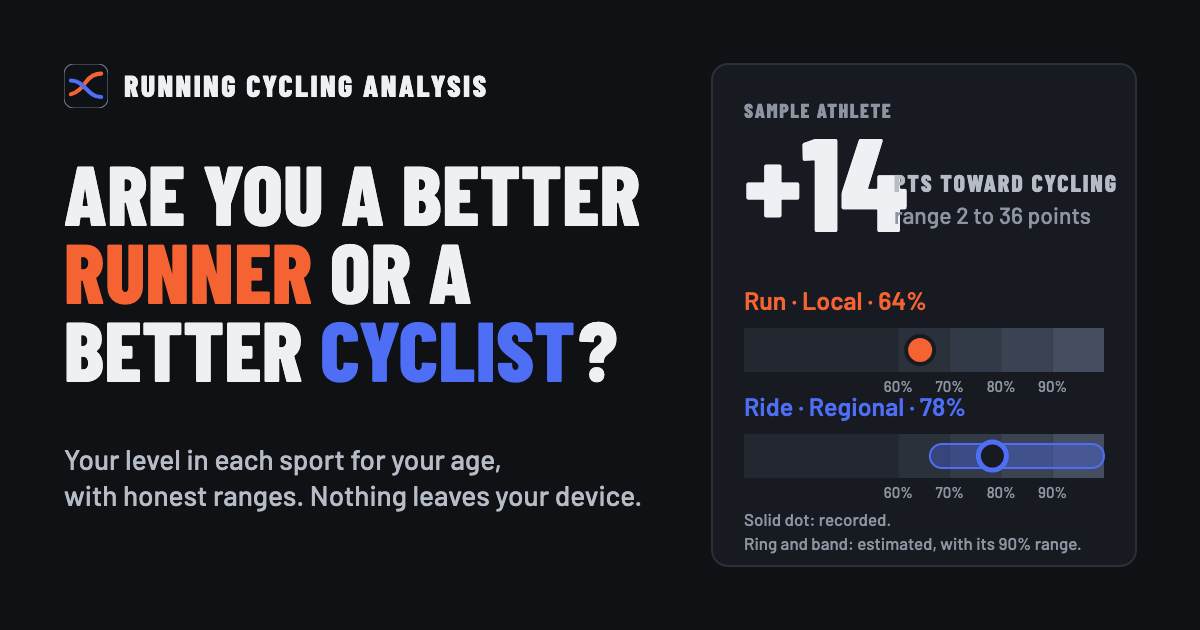
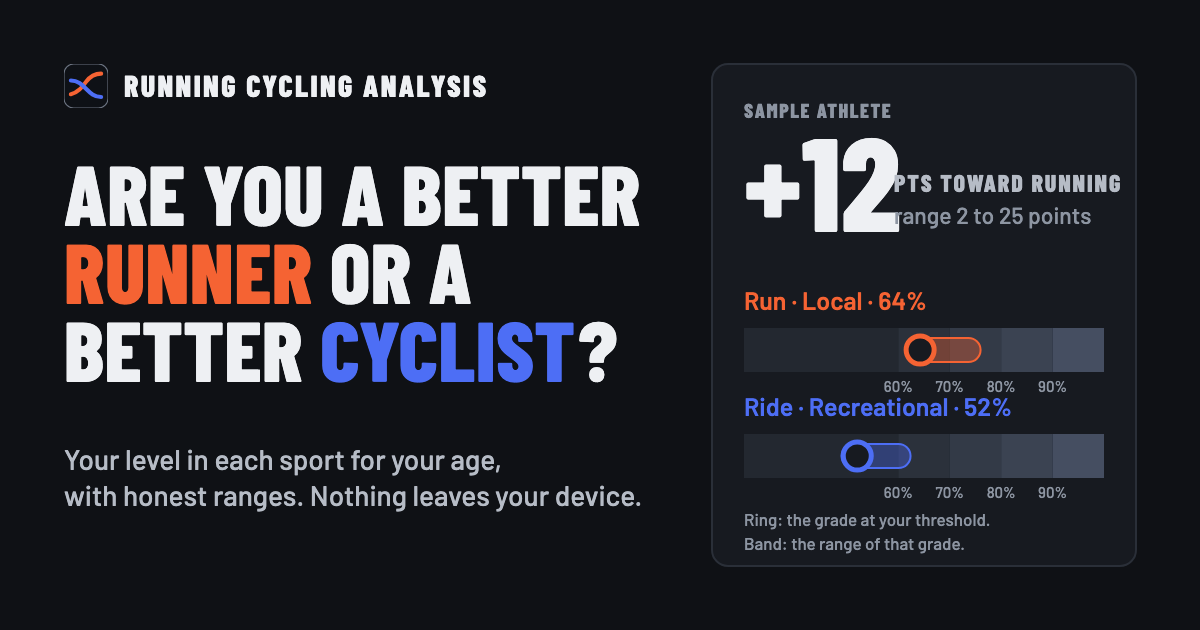
Bring the web tests to the threshold grades and the anchored ride
Each test now states the rule the page follows: the balance line gives the range
beside the centre, a result with no run threshold has only the energy ratio, the
grade line says threshold, and the Method page's grades section says each sport is
graded against its own best. The twelve-year fixture's ride starts higher, since a
ride now sits lower against the best runners than under the equal-energy rule, so
the years still cross in the same place. The share image is redrawn from the sample
athlete's threshold grades.

diff --git a/apps/web/src/ui/analysis/whatMoved.test.ts b/apps/web/src/ui/analysis/whatMoved.test.ts
@@ -1,5 +1,4 @@
 import { describe, expect, it } from 'vitest'
-import { headlineGrades } from '../balanceFixtures'
 import { HEADLINE_DURATION_S, PRIORS } from '@rca/core/constants'
 import type { AnalysisResult } from '@rca/core/pipeline'
 import type { AthleteSettings, Comparison, Interval } from '@rca/core/types'
@@ -13,8 +12,9 @@ import {
   makeEquivalence,
   makeResult,
 } from '../components/fixtures'
-import { gapOfHeadline } from '../balanceGap'
 import { formatGrade } from '../gradeFormat'
+import { standingOf } from '../standing'
+import { thresholdGrade } from '../thresholdGrade'
 import type { ImportChange } from './importState'
 import { listedMoves, whatMoved } from './whatMoved'
 
@@ -565,8 +565,11 @@ describe('whatMoved: balance in grade points', () => {
     const texts = whatMoved(before, after, SETTINGS, 'metric', MAN_BORN_1986).map(
       (item) => item.text,
     )
+    // The range moves with the ride's threshold, so the line states it with the centre.
     expect(texts).toContainEqual(
-      expect.stringMatching(/^Your balance now leans more toward running \(\d+ → \d+ points\)$/),
+      expect.stringMatching(
+        /^Your balance now leans more toward running \(\d+ → \d+ points\), and the range was \d+ to \d+ points and is now \d+ to \d+ points$/,
+      ),
     )
   })
 
@@ -576,12 +579,19 @@ describe('whatMoved: balance in grade points', () => {
     const texts = whatMoved(before, after, SETTINGS, 'metric', MAN_BORN_1986).map(
       (item) => item.text,
     )
-    expect(texts).toContain('Your balance now leans toward cycling')
+    expect(texts).toContainEqual(
+      expect.stringMatching(
+        /^Your balance now leans toward cycling, and the range was \d+ to \d+ points and is now -?\d+ to -?\d+ points$/,
+      ),
+    )
   })
 
   it('lists no balance when one side has grades and the other has only the energy ratio', () => {
     const before = gradedResult(3.8)
-    const after = resultWith({ comparison: balance(interval(1.02, 1.08, 1.14)) })
+    // No run threshold yet, so the run is not graded: this side has only the energy ratio.
+    const after = resultWith({ runCp: null, comparison: balance(interval(1.02, 1.08, 1.14)) })
+    expect(standingOf(before, MAN_BORN_1986).lead).not.toBeNull()
+    expect(standingOf(after, MAN_BORN_1986).lead).toBeNull()
     const texts = whatMoved(before, after, SETTINGS, 'metric', MAN_BORN_1986).map(
       (item) => item.text,
     )
@@ -594,7 +604,7 @@ describe('whatMoved: a ride at the top of the age tables', () => {
     // The ride's 9 m/s equivalent is faster than the running record for a man of 40, so it tops the scale.
     const before = gradedResult(9, { comparison: balance(interval(1.05, 1.12, 1.2)) })
     const after = gradedResult(9.5, { comparison: balance(interval(1.02, 1.08, 1.14)) })
-    expect(headlineGrades(before, MAN_BORN_1986).ride.kind).toBe('top-of-scale')
+    expect(thresholdGrade(before, 'ride', MAN_BORN_1986).kind).toBe('top-of-scale')
     const texts = whatMoved(before, after, SETTINGS, 'metric', MAN_BORN_1986).map(
       (item) => item.text,
     )
@@ -648,10 +658,10 @@ describe('whatMoved while no weight is entered', () => {
   })
 })
 
-/** The ride's headline grade as the page writes it, for a result graded for MAN_BORN_1986. */
+/** The ride's grade at its threshold as the page writes it, for a result graded for MAN_BORN_1986. */
 function rideGradeText(result: AnalysisResult): string {
-  const outcome = headlineGrades(result, MAN_BORN_1986).ride
-  if (outcome.kind !== 'graded') throw new Error('the ride has no headline grade')
+  const outcome = thresholdGrade(result, 'ride', MAN_BORN_1986)
+  if (outcome.kind !== 'graded') throw new Error('the ride has no grade at its threshold')
   return formatGrade(outcome.grade.centre.grade)
 }
 
@@ -737,7 +747,7 @@ describe('whatMoved: an import that added one activity', () => {
     ])
   })
 
-  it('adds the sport headline grade after the balance, in a spoken form too, when its whole percent changed', () => {
+  it('adds the sport grade at its threshold after the balance, in a spoken form too, when its whole percent changed', () => {
     const before = gradedResult(3.8)
     const after = gradedResult(3.5, {
       activities: [RUN, RIDE, NEW_RIDE],
@@ -749,8 +759,8 @@ describe('whatMoved: an import that added one activity', () => {
     const items = whatMoved(before, after, SETTINGS, 'metric', MAN_BORN_1986, true, 'ride')
     expect(items[0]?.text).toMatch(/^Your balance now leans more toward running \(/)
     expect(items[1]).toEqual({
-      text: `Ride 20 min grade: ${from} → ${to}`,
-      spoken: `Ride 20 min grade from ${from} to ${to}`,
+      text: `Ride threshold grade: ${from} → ${to}`,
+      spoken: `Ride threshold grade from ${from} to ${to}`,
     })
   })
 
@@ -869,9 +879,9 @@ describe('whatMoved: review fixes for one added activity', () => {
   })
 })
 
-/** The grade gap of a graded result for MAN_BORN_1986; throws when it has none. */
+/** The lead the page states for a result graded for MAN_BORN_1986, from the thresholds' grades; throws when it has none. */
 function gapOf(result: AnalysisResult) {
-  const gap = gapOfHeadline(headlineGrades(result, MAN_BORN_1986))
+  const gap = standingOf(result, MAN_BORN_1986).lead
   if (gap === null) throw new Error('the result has no grade gap')
   return gap
 }
@@ -887,10 +897,13 @@ describe('whatMoved: the balance line states the figures the Balance page shows'
     const to = Math.abs(Math.round(gapOf(after).centre))
     expect(from).not.toBe(to)
     const direction = to < from ? 'less' : 'more'
+    const [a, b] = [gapOf(before), gapOf(after)]
+    // The ride's threshold range moves with its centre, so the page states both.
+    const range = `the range was ${a.low} to ${a.high} points and is now ${b.low} to ${b.high} points`
     const [first] = whatMoved(before, after, SETTINGS, 'metric', MAN_BORN_1986, true, 'ride')
     expect(first).toEqual({
-      text: `Your balance now leans ${direction} toward running (${from} → ${to} points)`,
-      spoken: `Your balance now leans ${direction} toward running, from ${from} to ${to} points`,
+      text: `Your balance now leans ${direction} toward running (${from} → ${to} points), and ${range}`,
+      spoken: `Your balance now leans ${direction} toward running, from ${from} to ${to} points, and ${range}`,
     })
   })
 

diff --git a/apps/web/src/ui/pages/AgeGradingSection.test.tsx b/apps/web/src/ui/pages/AgeGradingSection.test.tsx
@@ -57,18 +57,19 @@ describe('AgeGradingSection', () => {
     expect(section()).not.toHaveTextContent(/flat pace|a fact from the file/)
   })
 
-  it('says a ride grade is an estimate through its running equivalent', () => {
+  it('grades each sport against its own best, and a ride through its running equivalent at the same share', () => {
     render(<AgeGradingSection gradedSex={null} />)
 
     for (const line of [
-      'A ride has no published cycling standard.',
-      'Its threshold is converted to a running equivalent.',
-      'That is the flat running speed that costs the same energy for the same hour.',
-      'The equivalent is graded like a run.',
+      'Each sport is graded against its own best: a ride against the best riders’ hour, a run against the best runners’.',
+      'Your grade in each is your share of world class at your age.',
+      'A ride has no published cycling standard, so its threshold becomes a running equivalent at the same share.',
       'So a ride grade is an estimate.',
     ]) {
       expect(within(section()).getByText(line)).toBeInTheDocument()
     }
+    // The old rule priced a ride's energy and read the run that costs the same; it is gone from the page.
+    expect(section()).not.toHaveTextContent(/costs the same energy/)
     // The 90% range is explained once, in the energy view, so this paragraph does not repeat it.
     expect(section()).not.toHaveTextContent('Its range is the model’s 90% range')
   })
@@ -86,20 +87,21 @@ describe('AgeGradingSection', () => {
     }
   })
 
-  it('explains why each effort is graded at its own date, and which date a ride takes', () => {
+  it('grades a threshold as an hour at the age on its strongest effort’s day, and a best at a duration on its own date', () => {
     render(<AgeGradingSection gradedSex={null} />)
 
     expect(
-      within(section()).getByText('Each effort is graded at your age on its own date.'),
+      within(section()).getByText(
+        'Each threshold is graded as an hour, at your age on the day of its strongest effort.',
+      ),
     ).toBeInTheDocument()
     expect(
       within(section()).getByText('It is not graded at the newest activity’s date.'),
     ).toBeInTheDocument()
     expect(
-      within(section()).getByText('A ride takes the date of its own best ride at that duration.'),
-    ).toBeInTheDocument()
-    expect(
-      within(section()).getByText('Its running equivalent comes from that ride.'),
+      within(section()).getByText(
+        'A best effort at a duration is graded at your age on its own date: for a ride, its own best ride.',
+      ),
     ).toBeInTheDocument()
   })
 
@@ -207,12 +209,11 @@ describe('AgeGradingSection level target', () => {
 })
 
 describe('AgeGradingSection balance', () => {
-  it('says the grades of each sport’s best effort at the headline length give the balance', () => {
+  it('says the balance grades each sport at its threshold, as an hour', () => {
     render(<AgeGradingSection gradedSex={null} />)
 
-    expect(
-      within(section()).getByText('Each sport is graded at its threshold, as an hour.'),
-    ).toBeInTheDocument()
+    expect(within(section()).getByText(/^Each threshold is graded as an hour,/)).toBeInTheDocument()
+    expect(section()).not.toHaveTextContent(/best effort at the headline length/)
   })
 })
 
@@ -224,9 +225,9 @@ describe('AgeGradingSection reading', () => {
     const lines = Array.from(container.querySelectorAll('.method__line')).map(
       (line) => line.textContent ?? '',
     )
-    expect(lines.length).toBeGreaterThan(25)
+    expect(lines.length).toBeGreaterThan(20)
     for (const line of lines) expect(line.split(/\s+/).length, line).toBeLessThanOrEqual(25)
-    // Thirty lines as a handful of paragraphs, not thirty blocks.
+    // Over twenty lines as a handful of paragraphs, not a block each.
     expect(container.querySelectorAll('.method__text > p.secondary').length).toBeLessThan(14)
   })
 })

diff --git a/apps/web/src/ui/pages/MethodPage.words.test.tsx b/apps/web/src/ui/pages/MethodPage.words.test.tsx
@@ -29,7 +29,7 @@ const BUDGET = 2000
 describe('the Method page', () => {
   it('stays within its word budget', () => {
     const { container } = render(page(makeResult(), MAN_BORN_1986))
-    // Measured with every disclosure closed: 2,046 words before D4.10's trim, 2,010 after; the Your years topic (#311) has since added 15, so 2,025. V2e writes one fact a line and moves the zone schemes, the curve starts and the tie-break into More detail, which leaves 2,024. One How this works list says each idea once, and its small details are plain lines, which leaves 2,017. The threshold entry says a ride’s method and drops the rule that a best that was not hard set a floor, which leaves 2,007. The run threshold is said as the ride's is, one line for each in place of the critical-speed fit and its floor, which leaves 2,000. The heart-rate line names the ride and the run line drops "built the same way", which leaves 1,999.
+    // Measured with every disclosure closed: 2,046 words before D4.10's trim, 2,010 after; the Your years topic (#311) has since added 15, so 2,025. V2e writes one fact a line and moves the zone schemes, the curve starts and the tie-break into More detail, which leaves 2,024. One How this works list says each idea once, and its small details are plain lines, which leaves 2,017. The threshold entry says a ride’s method and drops the rule that a best that was not hard set a floor, which leaves 2,007. The run threshold is said as the ride's is, one line for each in place of the critical-speed fit and its floor, which leaves 2,000. The heart-rate line names the ride and the run line drops "built the same way", which leaves 1,999. Grading each sport against its own best says the anchor in three lines and drops the equal-energy ones, which leaves 1,998.
     expect(wordsOf(container).length).toBeLessThanOrEqual(BUDGET)
   })
 })

diff --git a/apps/web/src/ui/pages/AgeGradingSection.tsx b/apps/web/src/ui/pages/AgeGradingSection.tsx
@@ -59,10 +59,8 @@ export function AgeGradingSection({ gradedSex }: AgeGradingSectionProps) {
           lines={[
             'Each sport is graded against its own best: a ride against the best riders’ hour, a run against the best runners’.',
             'Your grade in each is your share of world class at your age.',
-            'A ride has no published cycling standard, so its threshold is placed on the running scale at the same share of its world class.',
-            'That running pace is its running equivalent, and it is graded like a run.',
+            'A ride has no published cycling standard, so its threshold becomes a running equivalent at the same share.',
             'So a ride grade is an estimate.',
-            'Each sport is graded at its threshold, as an hour.',
           ]}
         />
         <MethodLines
@@ -83,11 +81,9 @@ export function AgeGradingSection({ gradedSex }: AgeGradingSectionProps) {
         />
         <MethodLines
           lines={[
-            'Each threshold is graded at your age on the day of its strongest effort.',
+            'Each threshold is graded as an hour, at your age on the day of its strongest effort.',
             'It is not graded at the newest activity’s date.',
-            'A best effort at a duration is graded at your age on its own date.',
-            'A ride takes the date of its own best ride at that duration.',
-            'Its running equivalent comes from that ride.',
+            'A best effort at a duration is graded at your age on its own date: for a ride, its own best ride.',
           ]}
         />
         <p className="secondary">

diff --git a/packages/core/src/history/test/balanceLibrary.ts b/packages/core/src/history/test/balanceLibrary.ts
@@ -93,11 +93,15 @@ export function balanceLibrary(years: readonly YearSpec[]): ActivityDigest[] {
   ])
 }
 
-/** Twelve years from 2013: run ahead until 2020, ride from 2021; 2016 has a run only and 2018 nothing at all. */
+/**
+ * Twelve years from 2013: run ahead until 2019, level in 2019, ride ahead from 2020; 2016 has a run only and 2018 nothing at all.
+ * The ride's scale starts at 0.875 because a ride's equivalent is anchored at the best riders' hour: the same ride sits lower
+ * against the best runners than under the energy-for-energy rule these years were first written for.
+ */
 export const TWELVE_YEARS: readonly YearSpec[] = Array.from({ length: 12 }, (_, i): YearSpec => {
   const year = 2013 + i
   const run = { scale: 1 + i * 0.01, heartRate: 175 }
-  const ride = { scale: 0.7 + i * 0.05, heartRate: i % 3 === 0 ? 120 : 175 }
+  const ride = { scale: 0.875 + i * 0.0625, heartRate: i % 3 === 0 ? 120 : 175 }
   return { year, run, ride }
 })
   .filter(({ year }) => year !== 2018)

diff --git a/apps/web/src/ui/pages/TwentyMinuteEffort.tsx b/apps/web/src/ui/pages/TwentyMinuteEffort.tsx
@@ -20,7 +20,7 @@ export function TwentyMinuteEffort() {
         The 20 min effort
       </h3>
       <p className="secondary">
-        <span className="method__line">{`Balance reads your best ${HEADLINE_LABEL} in each sport for changes and the energy view.`}</span>{' '}
+        <span className="method__line">{`Balance’s changes and energy view read your best ${HEADLINE_LABEL} in each sport.`}</span>{' '}
         <span className="method__line">
           The heart-rate check judges that effort against your{' '}
           <Definition meaning={MAX_HEART_RATE_MEANING}>max heart rate</Definition>.

diff --git a/apps/web/src/App.balance.test.tsx b/apps/web/src/App.balance.test.tsx
@@ -87,8 +87,11 @@ describe('the import summary for an athlete with a birth year, a sex and a weigh
 
     render(<App />)
 
+    // The ride's threshold range moves with its centre, so the notice states the range beside the centre.
     expect(
-      screen.getByText(/^Your balance now leans more toward running \(\d+ → \d+ points\)$/),
+      screen.getByText(
+        /^Your balance now leans more toward running \(\d+ → \d+ points\), and the range was \d+ to \d+ points and is now \d+ to \d+ points$/,
+      ),
     ).toBeInTheDocument()
   })
 

diff --git a/apps/web/src/ui/pages/MethodPage.test.tsx b/apps/web/src/ui/pages/MethodPage.test.tsx
@@ -800,7 +800,9 @@ describe('MethodPage heart-rate check', () => {
     const heading = within(section).getByRole('heading', { level: 3, name: 'The 20 min effort' })
     expect(heading).toHaveAttribute('id', TWENTY_MINUTE_ID)
     expect(
-      within(section).getByText(/^Balance reads your best 20 min in each sport/),
+      within(section).getByText(
+        /^Balance’s changes and energy view read your best 20 min in each sport/,
+      ),
     ).toBeInTheDocument()
   })
 
